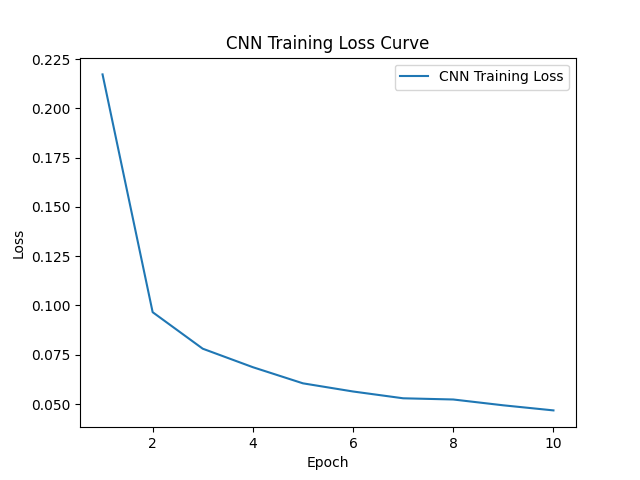
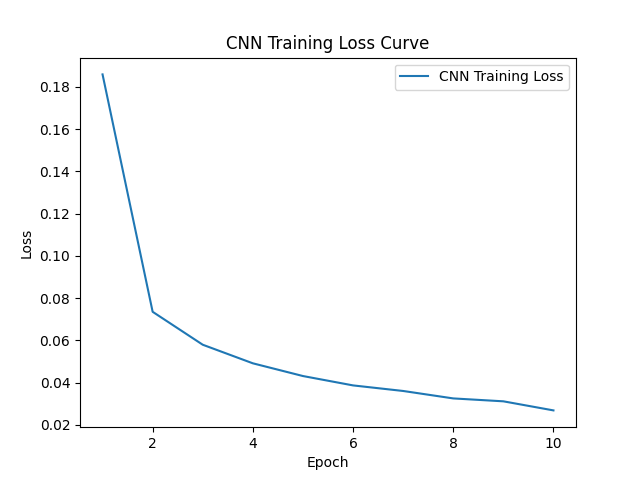
[Add]: complete CNN inference

diff --git a/main.py b/main.py
@@ -60,14 +60,17 @@ def learning(nb_epochs, bt_size, arch):
 
 @router_cmd.command()
 @click.option('--path2models', help='path to models', type=click.Path(True), default='models/')
-@click.option('--model_name', help='vectorization', type=str, default='mlp_network.th')
 @click.option('--bt_size', help='batch size', type=int, default=32)
 @click.option('--arch', help='cnn or mlp', type=click.Choice(['cnn', 'mlp']), default='mlp')
-def inference(path2models, model_name, bt_size, arch):
+def inference(path2models, bt_size, arch):
     logger.debug('Inference...')
     path2metrics = 'metrics/'
     if not os.path.exists(path2metrics):
         os.makedirs(path2metrics)
+    if arch == 'mlp':
+        model_name = 'mlp_network.th'
+    else:
+        model_name = 'cnn_network.th'
     model = th.load(os.path.join(path2models, model_name))
     device = th.device('cuda:0' if th.cuda.is_available() else 'cpu')
     test_loader = DataLoader(

diff --git a/inference.py b/inference.py
@@ -28,8 +28,27 @@ def mlp_inference(test_loader, model, device):
 
     return images, predictions, ground_truths
 
-def cnn_inference():
-    pass
+def cnn_inference(test_loader, model, device):
+    predictions = []
+    ground_truths = []
+    images = []
+    
+    with th.no_grad():
+        for X, Y in track(test_loader, description='Inference...'):
+            X = Variable(X)
+            Y = Variable(Y)
+            
+            X = X.to(device)
+            Y = Y.to(device)
+
+            P = model(X)
+            predictions.extend(th.argmax(P, dim=1).cpu().numpy())
+            ground_truths.extend(Y.cpu().numpy())
+            images.extend(X.cpu().numpy())
+
+    model.train()
+
+    return images, predictions, ground_truths
 
 if __name__ == '__main__':
     logger.info('Inference test...')

diff --git a/learn.py b/learn.py
@@ -60,13 +60,13 @@ def learn_with_mlp(data_loader, nb_epochs: int, device: th.device, path2model: s
 def learn_with_cnn(data_loader, nb_epochs: int, device: th.device, path2model: str, path2metrics: str):
     layer_cfg = {
         'convs': {
-            'shapes': [1, 16, 32, 64],
-            'dropouts': [0.2, 0.2, 0.2]
+            'shapes': [1, 16, 32],
+            'dropouts': [0.2, 0.2]
         },
         'linears': {
-            'shapes': [64*7*7, 64, 10],
+            'shapes': [32*7*7, 64, 10],
             'non_linears': [1, 0],
-            'dropouts': [0.2, 0.0]
+            'dropouts': [0.1, 0.0]
         }
     }
     net = CNN_Model(layer_cfg)
